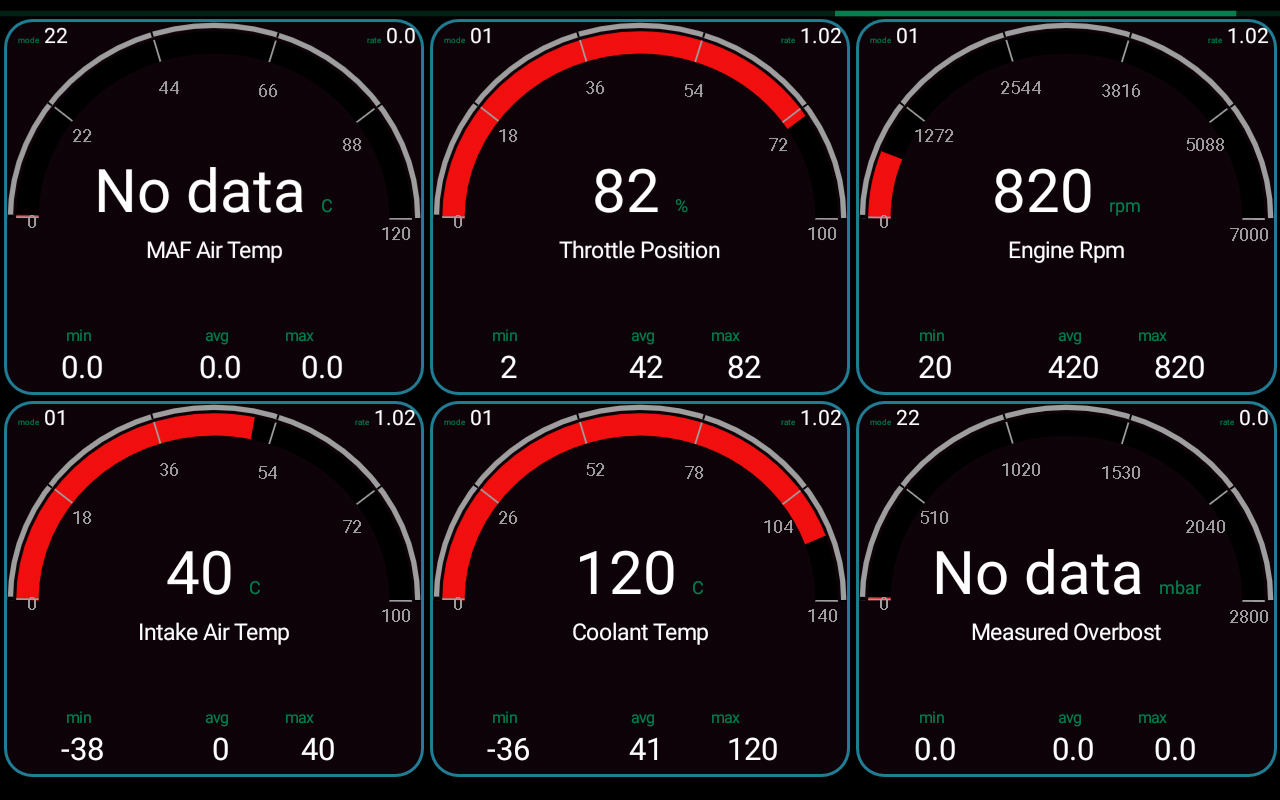
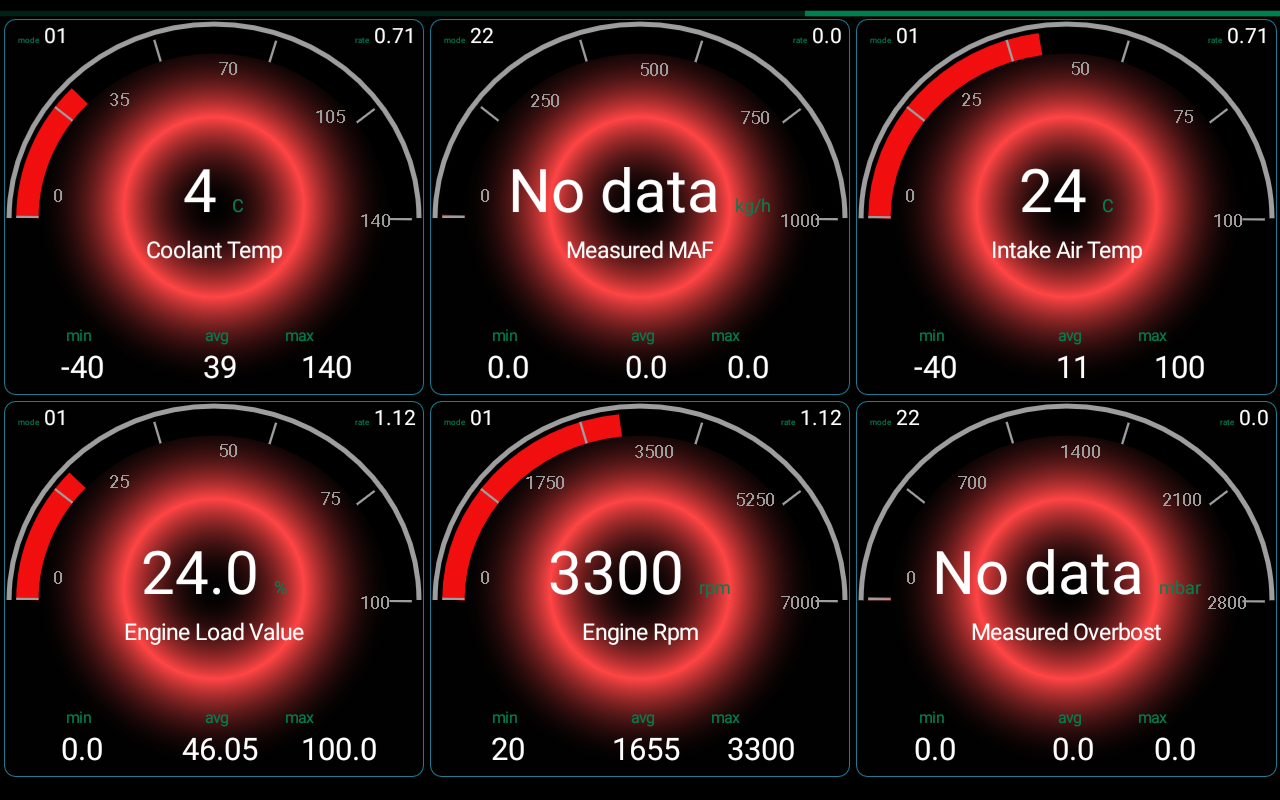
Re-scale decor line depends on number of gauges selected

diff --git a/app/src/main/java/org/openobd2/core/logger/ui/gauge/Gauge.kt b/app/src/main/java/org/openobd2/core/logger/ui/gauge/Gauge.kt
@@ -19,7 +19,7 @@ private const val SCALE_STEP = 2
 // This class is an extension of https://github.com/pkleczko/CustomGauge
 class Gauge : View {
     private lateinit var paint: Paint
-    var strokeWidth = 0f
+    private var multiplier = 1f
     private var strokeColor = 0
     private lateinit var progressRect: RectF
     private lateinit var decorRect: RectF
@@ -29,6 +29,7 @@ class Gauge : View {
     private var startAngle = 0
     private var sweepAngle = 0
     var startValue: Float = 0f
+    private var strokeWidth = 0f
     private var pointAngle = 0.0
     private var point = 0
     private var pointSize = 0
@@ -44,6 +45,10 @@ class Gauge : View {
 
     var gaugeDrawScale = false
     private val numbersPaint = Paint()
+
+    internal fun scale (multiplier: Float) {
+        this.multiplier = multiplier
+    }
 
     private var strokeCap: String = Paint.Cap.BUTT.name
         set(newValue) {
@@ -132,9 +137,14 @@ class Gauge : View {
 
         styledAttributes.recycle()
         init()
+
+
     }
 
     internal fun init() {
+        strokeWidth *= multiplier
+        var decorLineOffset = 12 * multiplier
+
         paint = Paint()
         paint.color = strokeColor
         paint.strokeWidth = strokeWidth
@@ -174,9 +184,8 @@ class Gauge : View {
         progressRect[rectLeft, rectTop, rectRight] = rectBottom
 
         decorRect = RectF()
-        val diff = 16f
-        decorRect[progressRect.left - diff, progressRect.top - diff, progressRect.right + diff] =
-            progressRect.bottom + diff
+        decorRect[progressRect.left - decorLineOffset, progressRect.top - decorLineOffset, progressRect.right + decorLineOffset] =
+            progressRect.bottom + decorLineOffset
     }
 
 

diff --git a/app/src/main/java/org/openobd2/core/logger/ui/gauge/GaugeViewAdapter.kt b/app/src/main/java/org/openobd2/core/logger/ui/gauge/GaugeViewAdapter.kt
@@ -186,7 +186,7 @@ class GaugeViewAdapter internal constructor(
             it.textSize *= multiplier * 0.65f
         }
         holder.gauge?.let {
-            it.strokeWidth *= multiplier * 1.15f
+            it.scale(multiplier * 1.15f)
             it.init()
         }
     }
